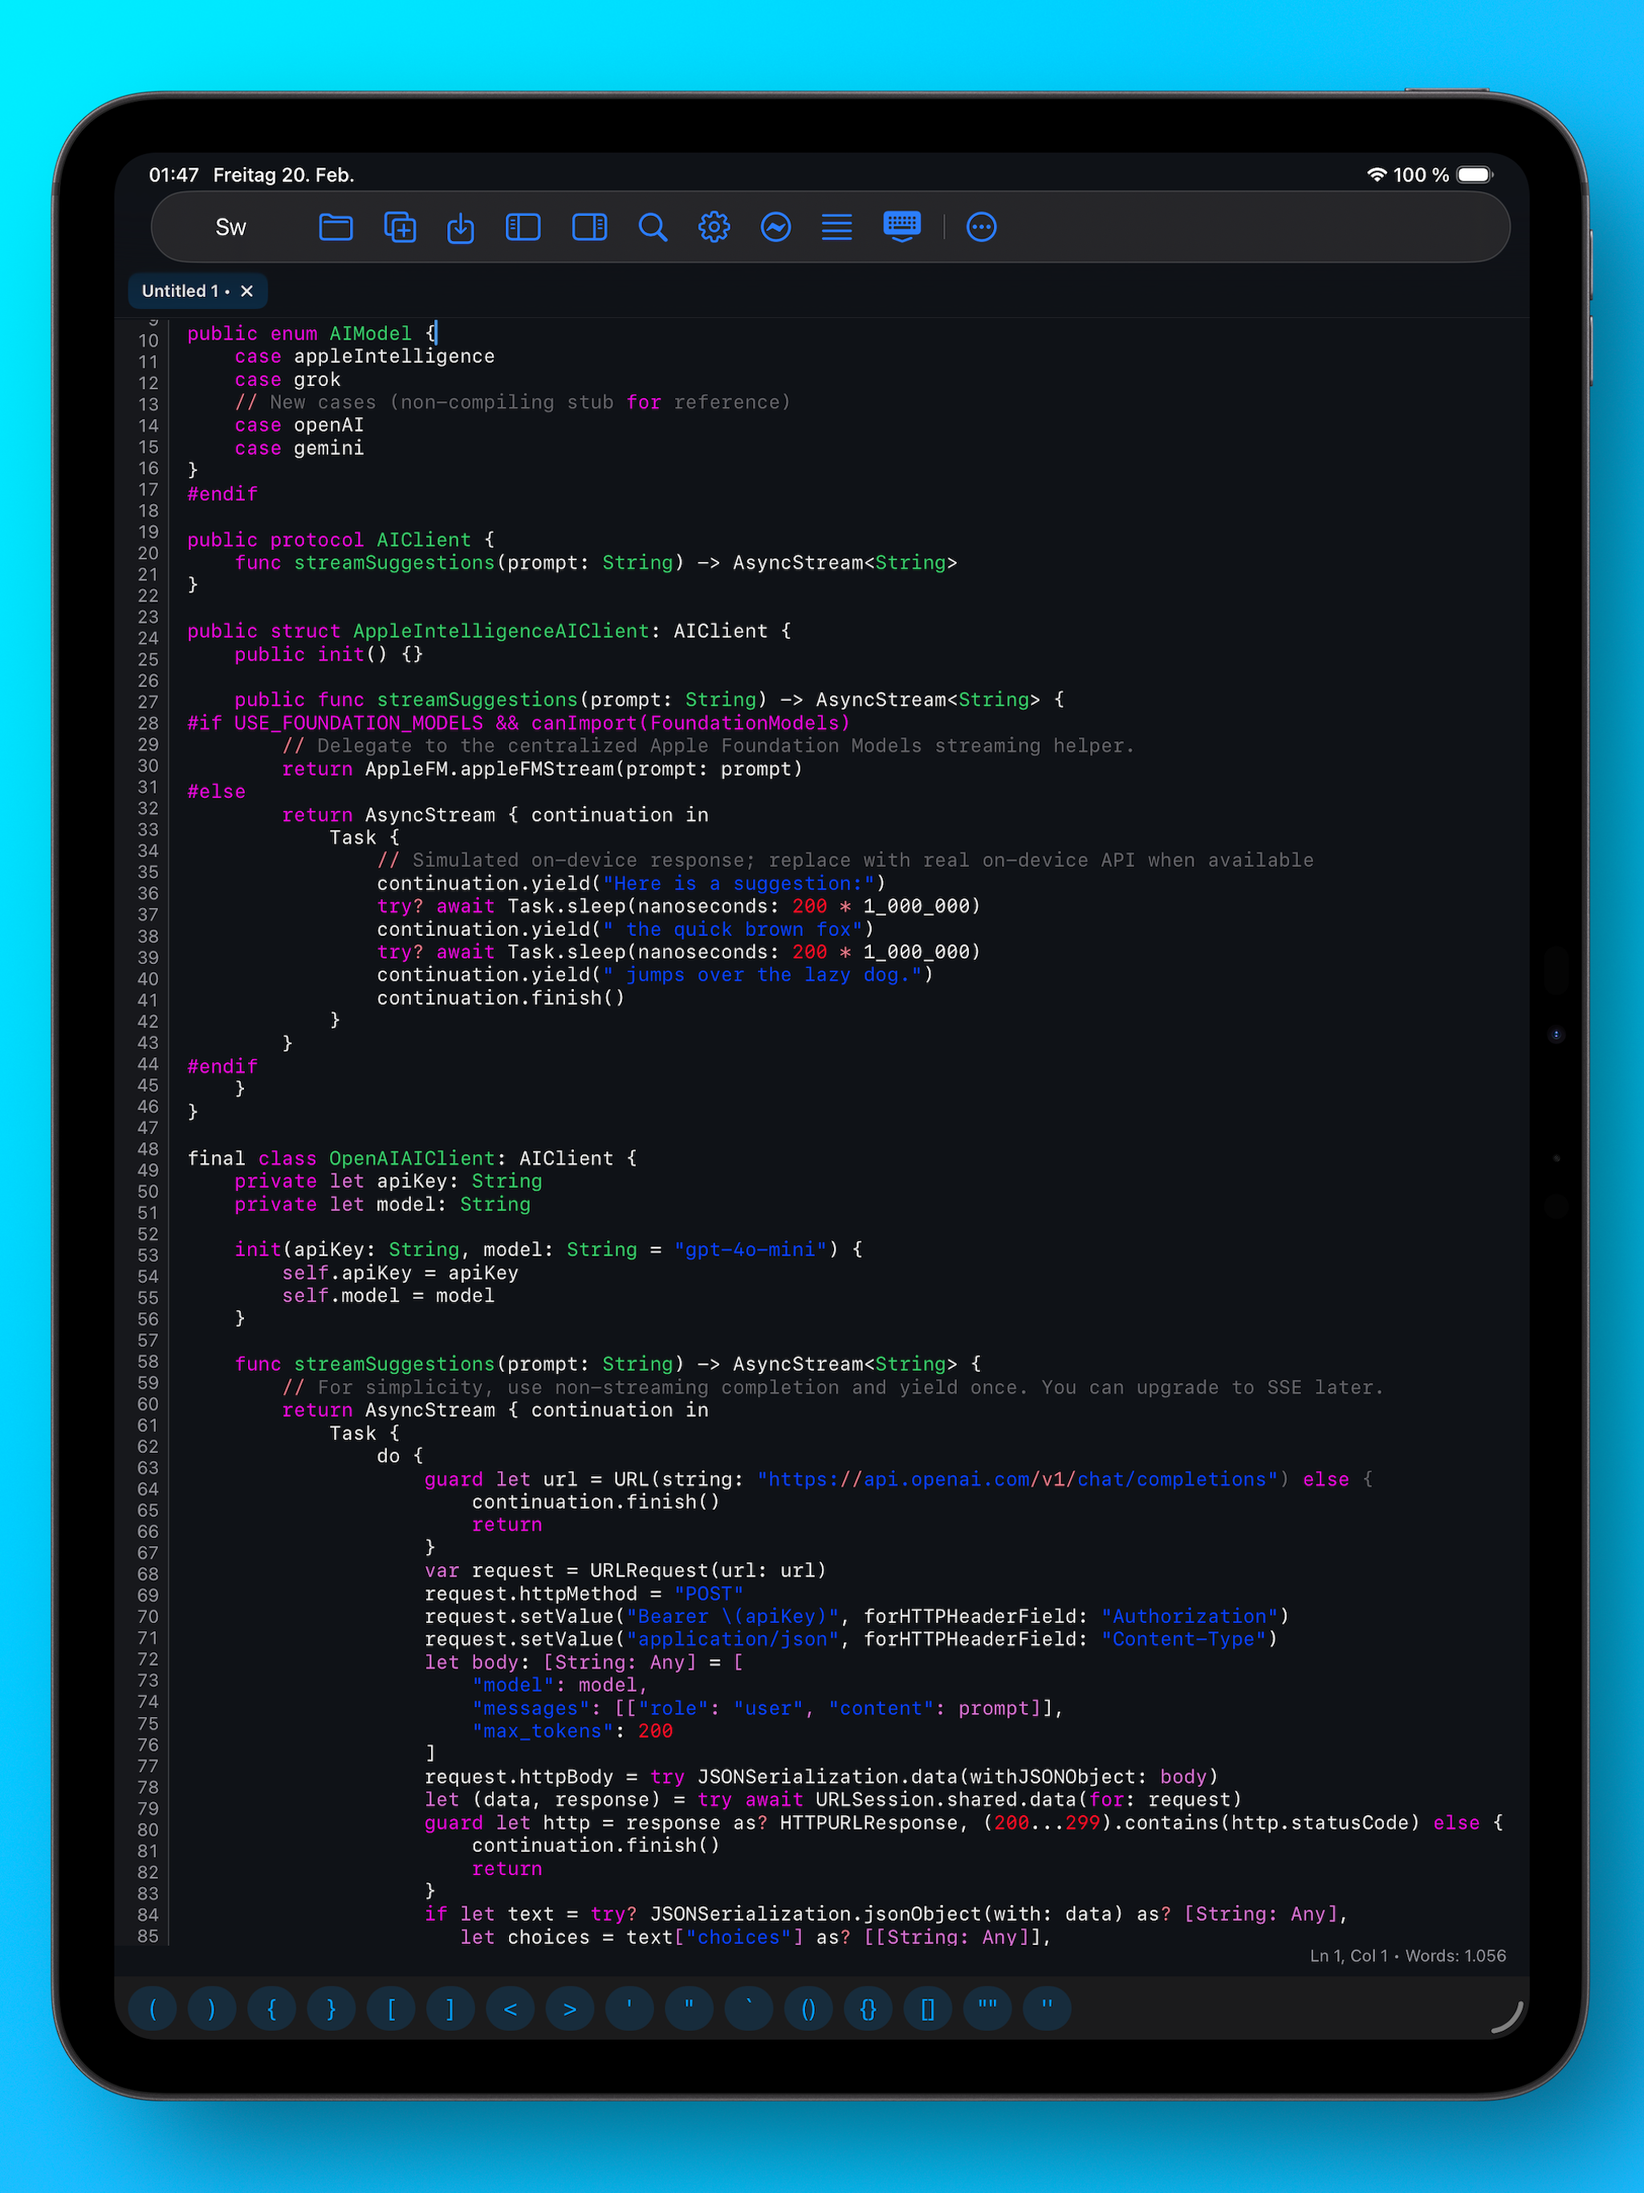
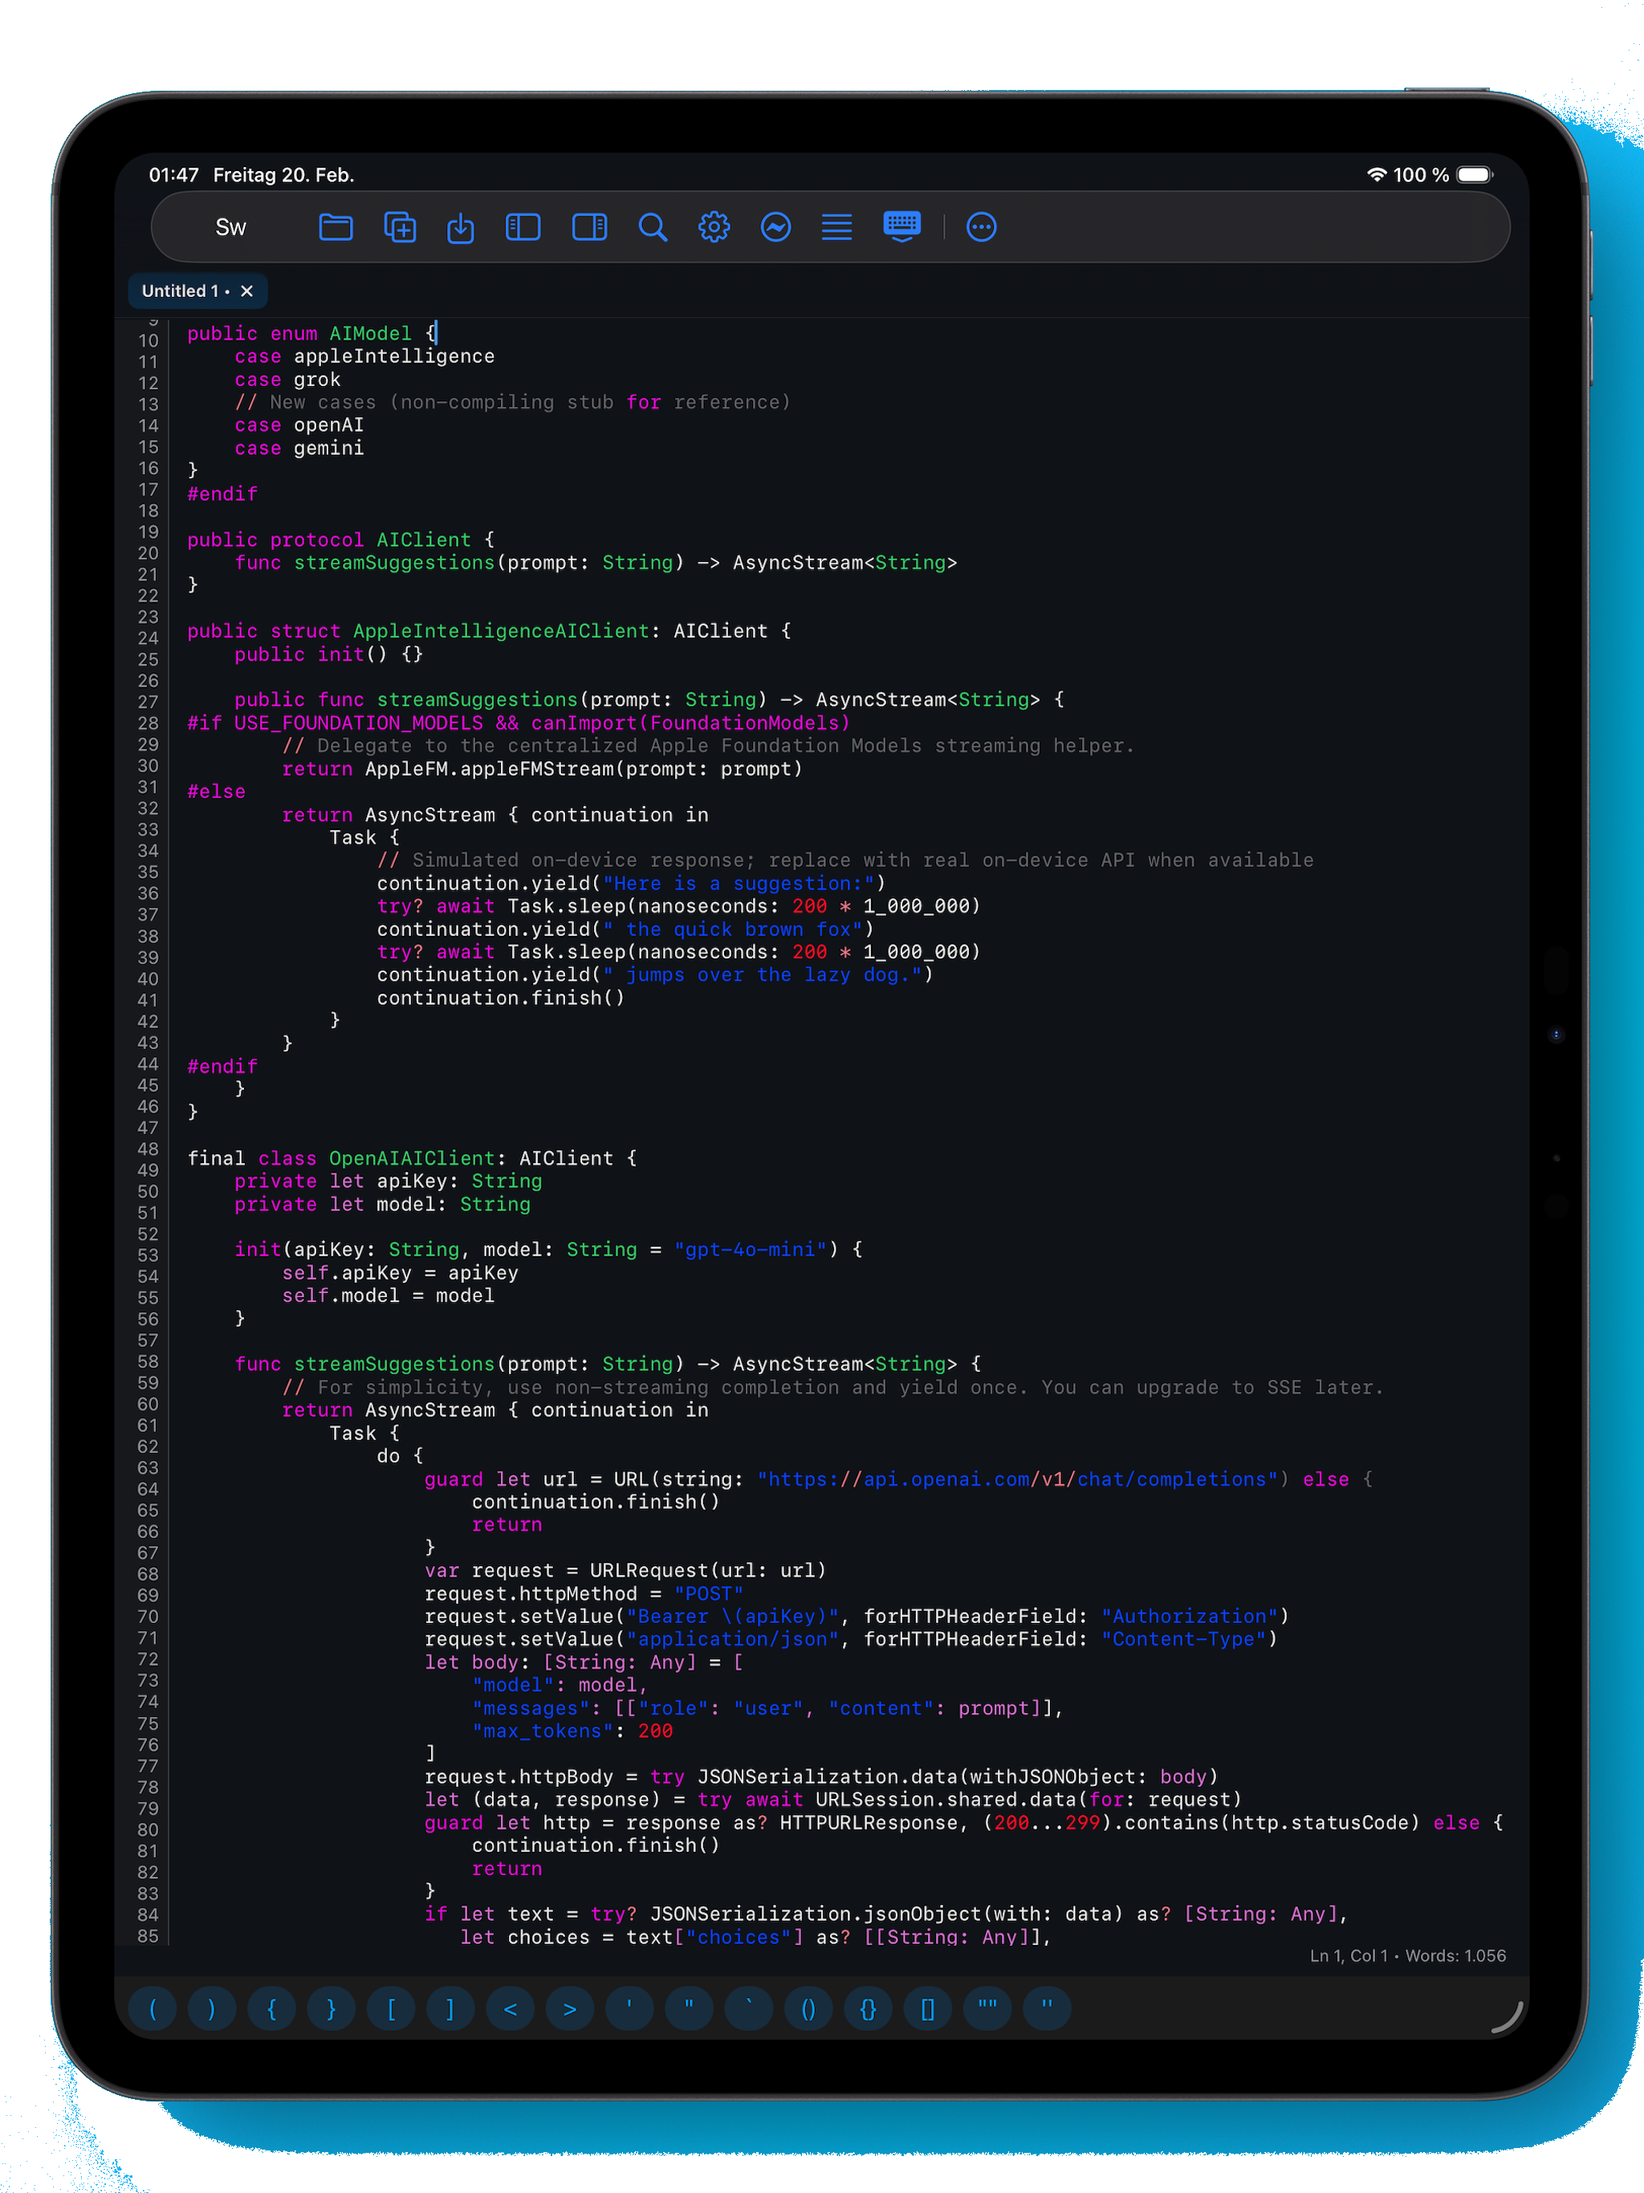
Deduplicate platform screenshot and apply transparent mobile backgrounds

Changed region(s): [[0.0, 0.0, 1.0, 1.0]]

diff --git a/README.md b/README.md
@@ -249,10 +249,6 @@ Availability legend: `Full` = complete support, `Partial` = available with platf
 | Bracket helper | Full | Full | Full | macOS: toolbar helper, iOS/iPadOS: keyboard snippet bar. |
 | Settings tabs + grouped cards | Full | Full | Full | Localized UI with grouped preference cards. |
 
-<p align="left">
-  <img src="NeonVisionEditorApp.png" alt="Neon Vision Editor App" width="1100"/>
-</p>
-
 ## Trust & Reliability Signals
 
 - Notarized release pipeline: [release-notarized.yml](https://github.com/h3pdesign/Neon-Vision-Editor/actions/workflows/release-notarized.yml)
